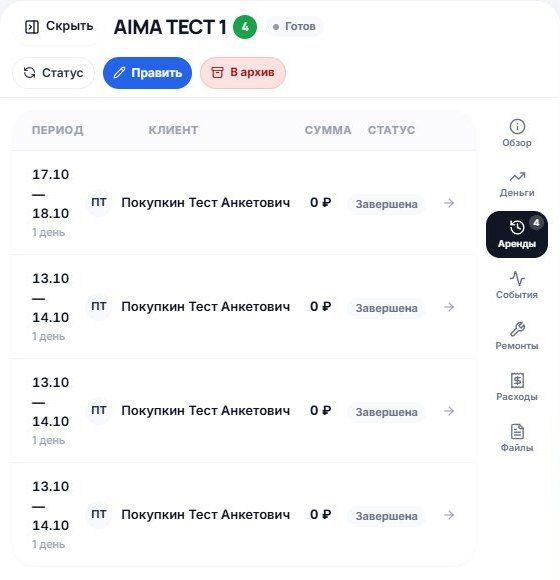
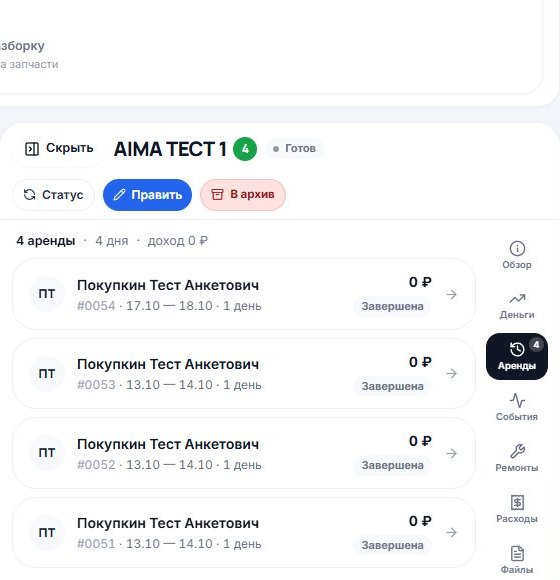
feat(скутер): список аренд в карточке — строки-карточки и итог; слайд в показ
Таблица на пять колонок в узком дровере ломала даты в столбик. Теперь
строка: клиент, #аренды · даты · дни, справа сумма и статус; сверху итог
(аренды · дни · доход). Слайд «История аренд скутера» добавлен в показ
2.0.9 (addedAt — досмотревшим покажется только он). Выпуск 2.0.10.

diff --git a/apps/web/src/pages/fleet/ScooterCard.tsx b/apps/web/src/pages/fleet/ScooterCard.tsx
@@ -2026,14 +2026,26 @@ function HistoryTab({
     return <Empty text="По этому скутеру ещё не было аренд" />;
   }
 
+  // Итог над списком — по арендам, где скутер ездил до конца (снятые при
+  // замене доезжали на другом скутере и в доход/дни не идут).
+  const own = sorted.filter((r) => !r.swappedOutAt);
+  const daysTotal = own.reduce((a, r) => a + (r.days ?? 0), 0);
+  const sumTotal = own.reduce((a, r) => a + (r.sum ?? 0), 0);
+
   return (
-    <div className="overflow-hidden rounded-2xl bg-surface shadow-card-sm">
-      <div className="grid grid-cols-[1.4fr_1.6fr_1fr_1fr_auto] gap-4 border-b border-border bg-surface-soft/60 px-5 py-3 text-[11px] font-bold uppercase tracking-wider text-muted-2">
-        <span>Период</span>
-        <span>Клиент</span>
-        <span className="text-right">Сумма</span>
-        <span>Статус</span>
-        <span />
+    <div className="flex flex-col gap-2">
+      {/* 17.10: строки-карточки вместо таблицы на пять колонок — в узкой
+          карточке-дровере таблица ломала даты в столбик. */}
+      <div className="flex flex-wrap items-baseline gap-x-2 px-1 text-[12.5px] text-muted">
+        <span className="font-semibold text-ink">
+          {sorted.length} {plural(sorted.length, ["аренда", "аренды", "аренд"])}
+        </span>
+        <span>·</span>
+        <span className="tabular-nums">
+          {daysTotal} {daysWord(daysTotal)}
+        </span>
+        <span>·</span>
+        <span className="tabular-nums">доход {fmt(sumTotal)} ₽</span>
       </div>
       {sorted.map((r) => {
         const client = apiClients?.find((c) => c.id === r.clientId);
@@ -2042,58 +2054,64 @@ function HistoryTab({
         const eff = effectiveRentalStatus(r.status, r.endPlanned);
         const s = STATUS_LABEL[eff] ?? STATUS_LABEL[r.status] ?? STATUS_LABEL.completed;
         const isCurrent = r.id === currentId;
+        const swapped = !!r.swappedOutAt;
         return (
           <button
             key={r.id}
             type="button"
             onClick={() => navigate({ route: "rentals", rentalId: r.id })}
-            className="grid w-full grid-cols-[1.4fr_1.6fr_1fr_1fr_auto] items-center gap-4 border-b border-border/60 px-5 py-3.5 text-left transition-colors last:border-b-0 hover:bg-surface-soft/50"
+            className={cn(
+              "group flex w-full items-center gap-3 rounded-2xl border bg-surface px-4 py-3 text-left transition-colors hover:border-blue-200 hover:bg-blue-50/30",
+              isCurrent ? "border-blue-300 bg-blue-50/40" : "border-border",
+            )}
           >
-            <div>
-              <div className="text-[13px] font-semibold text-ink tabular-nums">
+            <div className="flex h-9 w-9 shrink-0 items-center justify-center rounded-full bg-surface-soft text-[12px] font-bold text-ink-2">
+              {client ? initials(client.name) : "?"}
+            </div>
+            <div className="min-w-0 flex-1">
+              <div className="truncate text-[14px] font-semibold text-ink">
+                {client?.name ?? "—"}
+              </div>
+              <div className="mt-0.5 truncate text-[12px] tabular-nums text-muted">
+                <span className="text-muted-2">#{String(r.id).padStart(4, "0")}</span>
+                {" · "}
                 {r.start.slice(0, 5)} —{" "}
-                {r.swappedOutAt
-                  ? ruDayMonth(r.swappedOutAt)
+                {swapped
+                  ? ruDayMonth(r.swappedOutAt!)
                   : isCurrent
                     ? "сейчас"
                     : r.endPlanned.slice(0, 5)}
-              </div>
-              <div className="text-[11px] text-muted-2">
-                {r.swappedOutAt
+                {" · "}
+                {swapped
                   ? `снят${r.swappedToName ? ` → ${scooterModelName(r.swappedToName)}` : ""}`
                   : `${r.days} ${daysWord(r.days)}`}
               </div>
             </div>
-            <div className="flex items-center gap-2">
-              <div className="flex h-7 w-7 shrink-0 items-center justify-center rounded-full bg-surface-soft text-[11px] font-bold text-ink-2">
-                {client ? initials(client.name) : "?"}
-              </div>
-              <span className="truncate text-[13px] font-semibold text-ink">
-                {client?.name ?? "—"}
+            <div className="flex shrink-0 flex-col items-end gap-1">
+              <span
+                className="text-[14px] font-bold tabular-nums text-ink"
+                title={swapped ? "Аренда доезжала на другом скутере — сумма у него" : undefined}
+              >
+                {swapped ? <span className="text-muted-2">—</span> : `${fmt(r.sum)} ₽`}
               </span>
-            </div>
-            <div
-              className="text-right text-[13px] font-bold tabular-nums text-ink"
-              title={r.swappedOutAt ? "Аренда доезжала на другом скутере — сумма у него" : undefined}
-            >
-              {r.swappedOutAt ? <span className="text-muted-2">—</span> : `${fmt(r.sum)} ₽`}
-            </div>
-            <div>
               <span
                 className={cn(
                   "inline-flex items-center whitespace-nowrap rounded-full px-2 py-0.5 text-[11px] font-bold",
-                  r.swappedOutAt ? "bg-orange-soft text-orange-ink" : s.tone,
+                  swapped ? "bg-orange-soft text-orange-ink" : s.tone,
                 )}
                 title={
-                  r.swappedOutAt
+                  swapped
                     ? `Скутер сняли при замене${r.swappedToName ? ` на ${scooterModelName(r.swappedToName)}` : ""} — аренда доезжала на другом скутере`
                     : undefined
                 }
               >
-                {r.swappedOutAt ? "Заменён" : s.label}
+                {swapped ? "Заменён" : s.label}
               </span>
             </div>
-            <ArrowRight size={14} className="text-muted-2" />
+            <ArrowRight
+              size={15}
+              className="shrink-0 text-muted-2 transition-transform group-hover:translate-x-0.5"
+            />
           </button>
         );
       })}

diff --git a/apps/web/src/data/progress.ts b/apps/web/src/data/progress.ts
@@ -7018,9 +7018,9 @@ export const progressItems: ProgressItem[] = [
     title: "Карточка скутера: история аренд больше не пустая",
     quote:
       "Блок «Скутеры» — выбираем любой скутер — режим «Аренды» (показывает историю аренд на скутере). Этот блок пустой, несмотря на то, что на этом скутере было много аренд.",
-    status: "done",
+    status: "live",
     note:
-      "Почему было пусто: вкладка «Аренды» брала только текущий список аренд, а завершённые раз в период уходят в архив — на проде в архиве 196 аренд из 239, поэтому у большинства скутеров история «обнулялась». Кроме того, аренды искались по имени скутера, и после замены аренда «переезжала» на новый скутер — у снятого она пропадала (так прошло 60 аренд). Что изменилось: в историю попадают и текущие, и архивные аренды этого скутера, а также аренды, где его сняли при замене, — с пометкой «Заменён» и указанием, на какой скутер. Такие аренды доезжали на другом скутере, поэтому их сумма и дни в доход этого скутера не идут. Так же — в карточке скутера на телефоне и планшете.",
+      "Почему было пусто: вкладка «Аренды» брала только текущий список аренд, а завершённые раз в период уходят в архив — на проде в архиве 196 аренд из 239, поэтому у большинства скутеров история «обнулялась». Кроме того, аренды искались по имени скутера, и после замены аренда «переезжала» на новый скутер — у снятого она пропадала (так прошло 60 аренд). Что изменилось: в историю попадают и текущие, и архивные аренды этого скутера, а также аренды, где его сняли при замене, — с пометкой «Заменён» и указанием, на какой скутер. Такие аренды доезжали на другом скутере, поэтому их сумма и дни в доход этого скутера не идут. Список на компьютере — строками-карточками (клиент, номер аренды, даты и дни, сумма, статус) с итогом сверху. Так же — в карточке скутера на телефоне и планшете.",
     story: [
       {
         tag: "bug",
@@ -7034,7 +7034,7 @@ export const progressItems: ProgressItem[] = [
         tag: "fix",
         text: "История — со всеми арендами скутера, включая архивные и снятые при замене.",
         imgs: [
-          { src: "/progress/v2010-hist-desk-now.jpg", label: "СТАЛО: все 4 аренды" },
+          { src: "/progress/v2010-hist-desk-now.jpg", label: "СТАЛО: все 4 аренды, итог сверху, строки-карточки" },
           { src: "/progress/v2010-hist-phone-now.jpg", label: "СТАЛО: телефон — все 4 аренды" },
         ],
       },

diff --git a/apps/web/src/data/releases.ts b/apps/web/src/data/releases.ts
@@ -36,9 +36,32 @@ export type Release = {
 };
 
 /** Текущая версия приложения (показывается в тосте и в «Что нового»). */
-export const APP_VERSION = "2.0.9";
+export const APP_VERSION = "2.0.10";
 
 export const releases: Release[] = [
+  {
+    version: "2.0.10",
+    date: "2026-10-17",
+    title: "История аренд в карточке скутера",
+    highlights: [
+      {
+        title: "История аренд скутера больше не пустая",
+        before:
+          "Вкладка «Аренды» в карточке скутера показывала только текущие аренды: завершённые раз в период уходят в архив, и история «обнулялась»; после замены аренда пропадала у снятого скутера.",
+        after:
+          "Все аренды скутера — и архивные, и где его сняли при замене (пометка «Заменён», в доход не идут). Сверху итог: аренды, дни, доход. Список — строками-карточками, без съехавшей таблицы.",
+      },
+    ],
+    changes: [
+      {
+        group: "Скутеры",
+        items: [
+          "Карточка скутера → «Аренды»: архивные аренды и снятые при замене",
+          "Список аренд скутера: строки-карточки и итог сверху",
+        ],
+      },
+    ],
+  },
   {
     version: "2.0.9",
     date: "2026-10-17",

diff --git a/apps/web/src/release/tour.ts b/apps/web/src/release/tour.ts
@@ -1067,6 +1067,26 @@ const RELEASE_2_0_9: ReleaseTourConfig = {
       },
       imgPos: { desktop: "center center", phone: "center top" },
     },
+    {
+      id: "scooter-history",
+      kind: "changed",
+      title: "История аренд скутера",
+      route: "fleet",
+      headline: "«Скутеры» → карточка → «Аренды»: все аренды этого скутера, включая прошлые периоды.",
+      why: "Вкладка была почти пустой: завершённые аренды раз в период уходят в архив, и история их не показывала. После замены аренда пропадала у снятого скутера.",
+      points: [
+        "Сверху итог: сколько аренд, дней и доход",
+        "Снятые при замене — с пометкой «Заменён» и в доход не идут",
+        "Строка открывает аренду",
+      ],
+      audience: "all",
+      devices: ["desktop", "phone"],
+      before: { desktop: `${R209}/d-history-was.jpg`, phone: `${R209}/m-history-was.jpg` },
+      img: { desktop: `${R209}/d-history-now.jpg`, phone: `${R209}/m-history-now.jpg` },
+      imgPos: { desktop: "center center", phone: "center top" },
+      // Слайд добавлен в уже вышедший показ: досмотревшие увидят только его.
+      addedAt: "2026-10-17T18:50:00+03:00",
+    },
   ],
 };
 

diff --git a/scripts/shots/release-frames-2.0.9.py b/scripts/shots/release-frames-2.0.9.py
@@ -71,3 +71,9 @@ square("swap-desk-was-1", (180, 27, 1260, 873), "d-swap-was")
 square("swap-desk-now-4-ok", (180, 27, 1260, 873), "d-swap-now")
 phone_crop("swap-phone-was-1", (0, 250, 780, 1150), "m-swap-was")
 phone_crop("swap-phone-now-4-ok", (0, 250, 780, 1150), "m-swap-now")
+
+# ── 5. История аренд в карточке скутера (дополнение к показу, 17.10) ──
+square("hist-desk-was", (862, 320, 1422, 900), "d-history-was")
+square("hist-desk-now", (862, 320, 1422, 900), "d-history-now")
+phone_crop("hist-phone-was", (0, 100, 780, 1000), "m-history-was")
+phone_crop("hist-phone-now", (0, 100, 780, 1000), "m-history-now")
